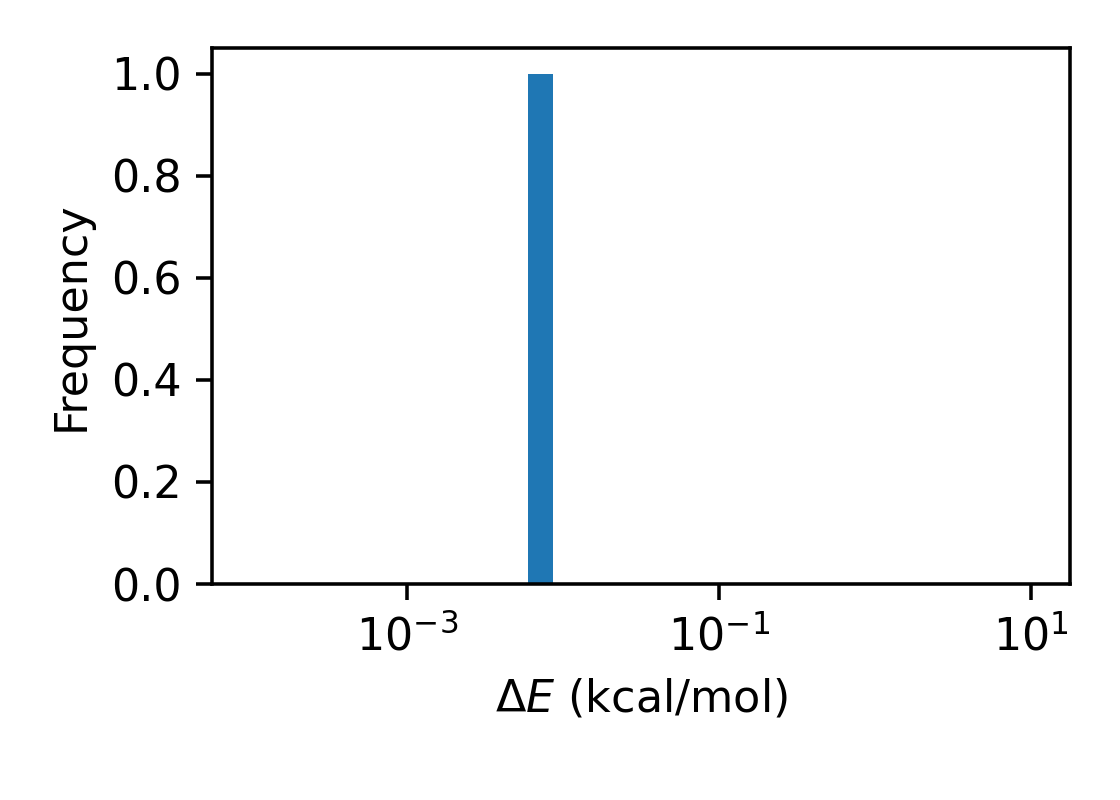
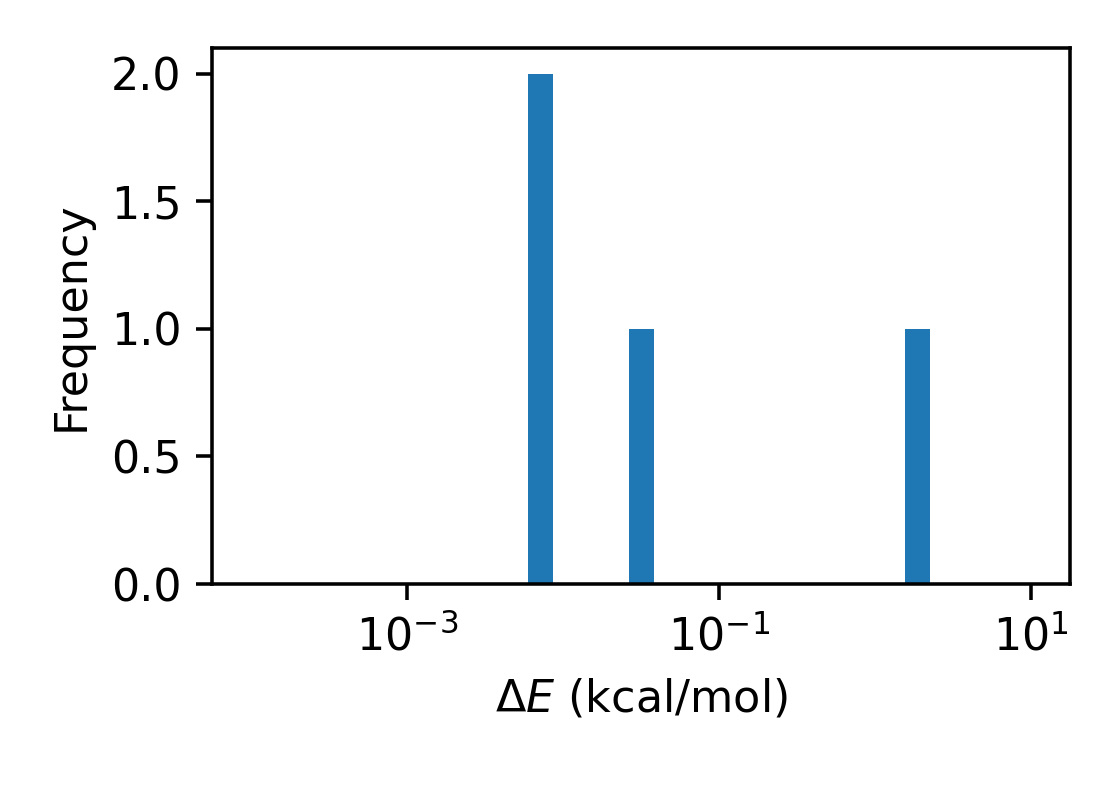
Added harmonic potential

diff --git a/hydronet/inverting.py b/hydronet/inverting.py
@@ -1,19 +1,74 @@
 """Functions for inverting a structure from graph to coordinates"""
 
+from ase.calculators.calculator import Calculator, all_changes
+from ase.optimize.bfgs import BFGS
 import networkx as nx
 import numpy as np
 import ase
+import os
 
 _h20_bond_angle = 2 * np.pi * 104.5 / 360
 
 
-def convert_directed_graph_to_xyz(graph: nx.DiGraph, n_h_guesses: int = 5) -> ase.Atoms:
+class HarmonicCalculator(Calculator):
+    """Calculator where certain atoms are connected by a linear spring
+    
+    Parameters
+    ----------
+    graph: nx.Graph
+        Bonding graph of the network
+    r: float
+        Desired bond length
+    k: float
+        Bond strength
+    """
+    
+    implemented_properties = ['forces', 'energy']
+    default_parameters = {'graph': None, 'r': 1., 'k': 1.}
+    nolabel = True
+    
+    def calculate(
+        self, atoms=None, properties=None, system_changes=all_changes,
+    ):
+        # Call the base class
+        if properties is None:
+            properties = self.implemented_properties
+
+        Calculator.calculate(self, atoms, properties, system_changes)
+        
+        # Loop over all nodes in the graph
+        assert self.parameters.graph is not None, "You must define the adjacency matrix"
+        forces = np.zeros((len(atoms), 3))
+        energy = 0
+        for i, center in enumerate(atoms.positions):
+            # Get the bonded atoms
+            bonds = list(self.parameters.graph[i].keys())
+            
+            # Compute the displacement vectors and distances
+            disps = atoms.positions[bonds, :] - center[None, :]
+            dists = np.linalg.norm(disps, axis=1)
+            energy += 0.5 * self.parameters.k * np.power(dists - self.parameters.r, 2).sum()
+            
+            # Compute the forces
+            forces[i, :] = np.sum((self.parameters.k * (dists - self.parameters.r) / dists)[:, None] * disps, axis=0)
+            
+        # Store the outputs
+        self.results['energy'] = energy / 2
+        self.results['forces'] = forces
+
+
+def convert_directed_graph_to_xyz(graph: nx.DiGraph, n_h_guesses: int = 5, 
+                                  hbond_distance: float = 2.9, relax_with_harmonic: bool = False) -> ase.Atoms:
     """Generate initial coordinates for water cluster from the directed graph of bonded waters
 
     Args:
         graph: Directed graph of how waters are bonded
         n_h_guesses: Number of guesses to make for each hydrogen position.
             We select the one that is farthest from all other atoms
+        hbond_distance: Target oxygen-to-oxygen hydrogen bond distance
+        relax_with_harmonic: Whether to relax the structure with a harmonic potential
+            before adding hydrogens. Experimental feature.
+        
     Returns:
         Atoms object describing candidate position of hydrogens
     """
@@ -25,12 +80,21 @@ def convert_directed_graph_to_xyz(graph: nx.DiGraph, n_h_guesses: int = 5) -> as
     pos = np.array([pos[i] for i in range(len(pos))])  # From a dict
     
     # Expand so that most bonds are longer than 2.9 A
-    #  TODO: (wardlt) Make this bond distance configurable
     bond_lengths = []
     for a, b in graph.edges:
         bond_lengths.append(np.linalg.norm(pos[a] - pos[b]))
-    scale_factor = 2.9 / np.percentile(bond_lengths, 25)
+    scale_factor = hbond_distance / np.percentile(bond_lengths, 25)
     pos *= scale_factor
+    
+    # Relax with a harmonic potential
+    if relax_with_harmonic:
+        calc = HarmonicCalculator(graph=graph.to_undirected(), r=hbond_distance)
+        # TODO (wardlt): We likely need a simple repulsion to prevent overlap (as is used in nx.spring_layout)
+        o_atoms = ase.Atoms(positions=pos)
+        o_atoms.set_calculator(calc)
+        opt = BFGS(o_atoms, logfile=os.devnull)
+        opt.run()
+        pos = o_atoms.positions.copy()
     
     # Make a map of oxygen index to covalently-bonded hydrogens
     h_map = [[] for _ in range(pos.shape[0])]
@@ -64,7 +128,7 @@ def convert_directed_graph_to_xyz(graph: nx.DiGraph, n_h_guesses: int = 5) -> as
         
         # If you have two hydrogens, no more to place
         if len(my_h) == 2:
-            # TODO (wardlt): Force the angle to be ~106.5
+            # TODO (wardlt): Force the angle to be ~106.5, rotating each bond towards each other
             continue
         
         # If you have none, first place one randomly
